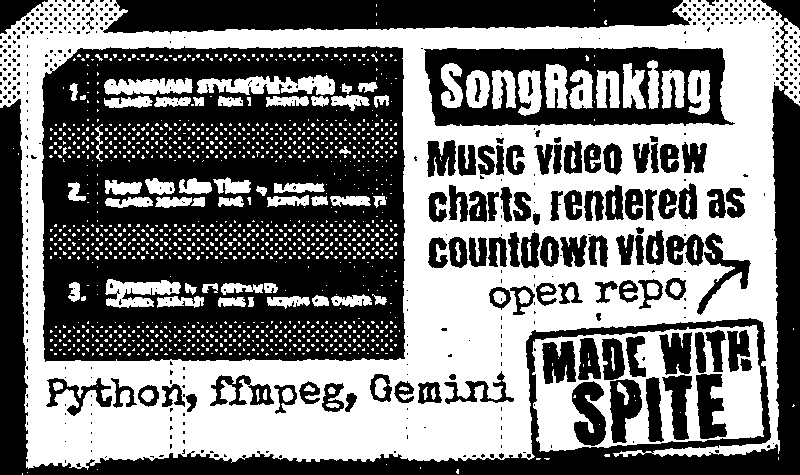
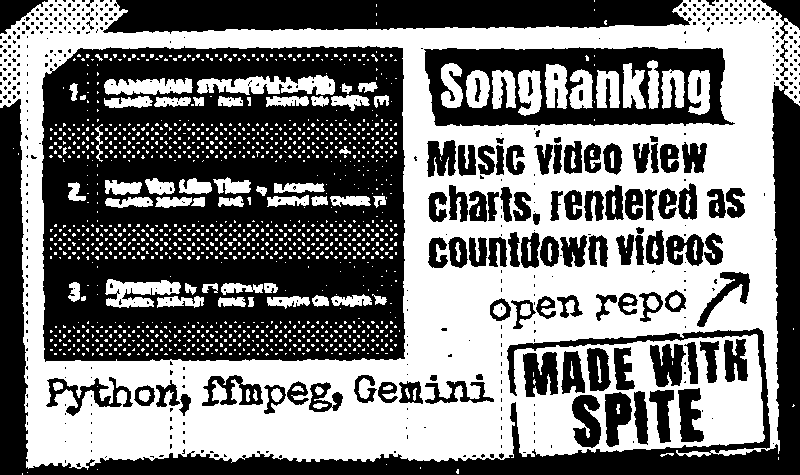
Make the Made with SPITE stamp readable at 320 px and place it clear of the Weekrow rings: lighter letter stroke, wider spacing, wear only on the stamp rule, a stacked open repo label right of the rings, a turn of 4 degrees, and the tech line level with the stamp

Changed region(s): [[0.0938, 0.5305, 0.9688, 0.9726]]

diff --git a/generator/pages/card-weekrow.html b/generator/pages/card-weekrow.html
@@ -7,15 +7,15 @@
 <link rel="stylesheet" href="card.css">
 <style>
   /* This card is wide: the name and caption sit in a row on top, and the ring row of the screenshot runs under them across the sheet. */
-  .main { display: block; position: relative; height: 278px; }
+  .main { display: block; position: relative; height: 273px; margin-top: -6px; }
   .side { position: static; height: 86px; display: flex; align-items: flex-start; gap: 14px; }
   #name { margin: 0 0 0 -10px; flex: none; }
   #caption { margin-top: 0; }
-  .shot { position: absolute; left: 0; top: 90px; width: 602px; height: 188px; }
-  #open { right: 34px; bottom: 140px; }
+  .shot { position: absolute; left: 0; top: 90px; width: 602px; height: 183px; }
+  #open { right: 24px; bottom: 150px; flex-direction: column-reverse; gap: 0; }
+  #open span { width: min-content; text-align: center; line-height: 36px; white-space: normal; }
   #open svg { width: 80px; height: 80px; }
-  #open span { display: none; }
-  #tech { margin-top: 6px; }
+  #tech { margin-top: 50px; }
   #title { position: absolute; left: 628px; top: 42px; z-index: 2; font-family: "Anton", sans-serif; font-size: 40px; line-height: 1; letter-spacing: 2px; padding: 6px 10px 0 12px; border-width: 6px; background: #fff; transform: rotate(-4deg); }
   .shot img { filter: url(#weekrow); }
 </style>
@@ -42,11 +42,11 @@
   card.start({
     seed: 421,
     tilt: -0.9,
-    stamp: { rot: 2, right: 6, bottom: 14 },
+    stamp: { rot: 4, right: 6, bottom: 13 },
     setup: () => {
       const img = document.getElementById('img');
       // The crop keeps the three rings (HIST 205, BIO 110, MATH 221) and drops the week header and the This week row.
-      card.crop(img, { sx: 32, sy: 187, sw: 400, fullWidth: 1280, boxWidth: 592 });
+      card.crop(img, { sx: 32, sy: 191, sw: 400, fullWidth: 1280, boxWidth: 592 });
       document.querySelector('.shot').setAttribute('data-soft', '');
       document.getElementById('sheet').appendChild(document.getElementById('open'));
     },

diff --git a/generator/pages/card.css b/generator/pages/card.css
@@ -13,7 +13,7 @@ body { width: 800px; }
 #name { position: relative; width: fit-content; height: 80px; margin: 2px 0 8px -10px; padding: 0 26px 0 24px; display: flex; align-items: center;
         font-family: "Anton", sans-serif; font-size: 60px; line-height: 1; color: #fff; letter-spacing: 1px; white-space: nowrap; transform: rotate(0.6deg); }
 #caption { white-space: nowrap; font-family: "Anton", sans-serif; font-size: 40px; line-height: 46px; letter-spacing: 0; }
-#tech { margin-top: 12px; font-size: 40px; line-height: 48px; white-space: nowrap; -webkit-text-stroke: 1px #000; }
+#tech { margin-top: 12px; font-size: 40px; line-height: 48px; letter-spacing: -1px; white-space: nowrap; -webkit-text-stroke: 1px #000; }
 
 .tape-piece { position: absolute; width: 190px; height: 64px; }
 
@@ -22,6 +22,6 @@ body { width: 800px; }
 #open svg { flex: none; overflow: visible; }
 
 /* Rubber stamp "Made with SPITE" at the lower right of the sheet; each card turns and places it a little differently. */
-#made { position: absolute; z-index: 3; padding: 6px 8px 5px; border-width: 7px; border-radius: 8px; font-family: "Anton", sans-serif; font-weight: normal; line-height: 1; text-align: center; -webkit-text-stroke: 1.2px #000; }
-#made span { display: block; font-size: 46px; line-height: 38px; letter-spacing: 2px; margin-right: -2px; }
-#made b { display: block; margin-top: 7px; font-size: 72px; line-height: 56px; font-weight: normal; letter-spacing: 3px; margin-right: -3px; }
+#made { position: absolute; z-index: 3; padding: 5px 12px 5px 8px; border-width: 6px; border-radius: 8px; font-family: "Anton", sans-serif; font-weight: normal; line-height: 1; text-align: center; -webkit-text-stroke: 1.2px #000; }
+#made span { display: block; font-size: 48px; line-height: 42px; letter-spacing: 3px; margin-right: -3px; -webkit-text-stroke: 0.4px #000; }
+#made b { display: block; margin-top: 4px; font-size: 60px; line-height: 52px; font-weight: normal; letter-spacing: 3px; margin-right: -3px; }

diff --git a/generator/pages/parts.js b/generator/pages/parts.js
@@ -111,8 +111,9 @@
     tape(el, { seed, fill: 'rgba(222,222,222,0.84)' });
   }
 
-  // Ink that wears off in small patches and scratches, used as a CSS mask.
-  function wear(el, { seed = 1, patches = 70, scratches = 8, size = 5 } = {}) {
+  // Ink that wears off in small patches and scratches, used as a CSS mask. Patches stay out of the `keepOut` boxes
+  // ({ x, y, w, h } in the element's own pixels), so worn ink can leave the lettering of a stamp whole.
+  function wear(el, { seed = 1, patches = 70, scratches = 8, size = 5, keepOut = [] } = {}) {
     const rand = rng(seed);
     const w = el.offsetWidth;
     const h = el.offsetHeight;
@@ -127,6 +128,8 @@
       const x = rand() * w;
       const y = rand() * h;
       const r = 1 + Math.pow(rand(), 2) * size * 2;
+      const reach = r * 1.45;
+      if (keepOut.some((k) => x > k.x - reach && x < k.x + k.w + reach && y > k.y - reach && y < k.y + k.h + reach)) continue;
       ctx.beginPath();
       for (let k = 0; k < 7; k++) {
         const a = (k / 7) * Math.PI * 2;

diff --git a/generator/pages/card.js b/generator/pages/card.js
@@ -47,7 +47,9 @@
     el.style.cssText = `right:${right}px;bottom:${bottom}px;transform:rotate(${rot}deg)`;
     el.innerHTML = '<span>MADE WITH</span><b>SPITE</b>';
     $('sheet').appendChild(el);
-    zine.wear(el, { seed, patches: 40, scratches: 0, size: 2.5 });
+    // The worn ink stays on the rule and the empty paper; the letters stay whole.
+    const keepOut = [...el.children].map((c) => ({ x: c.offsetLeft + el.clientLeft, y: c.offsetTop + el.clientTop, w: c.offsetWidth, h: c.offsetHeight }));
+    zine.wear(el, { seed, patches: 40, scratches: 0, size: 2.5, keepOut });
   }
 
   // Shrinks the name until it fits the text column, so a long project name never spills out.

diff --git a/generator/pages/card-songranking.html b/generator/pages/card-songranking.html
@@ -7,7 +7,7 @@
 <link rel="stylesheet" href="card.css">
 <style>
   .shot { background: #5c5c5c; }
-  #open { bottom: 32px; }
+  #open { bottom: 19px; }
   .bar { position: absolute; left: 0; width: 350px; height: 92px; overflow: hidden; }
   .bar img { filter: url(#bars); }
 </style>
@@ -38,7 +38,7 @@
     seed: 431,
     tilt: -0.7,
     shotTilt: 0.4,
-    stamp: { rot: -3, right: 12, bottom: 16 },
+    stamp: { rot: -3, right: 12, bottom: 11 },
     setup: () => {
       document.querySelectorAll('.bar img').forEach((img) => card.crop(img, { sx: 0, sy: 1182, sw: 1130, fullWidth: 2560, boxWidth: 350 }));
     },
